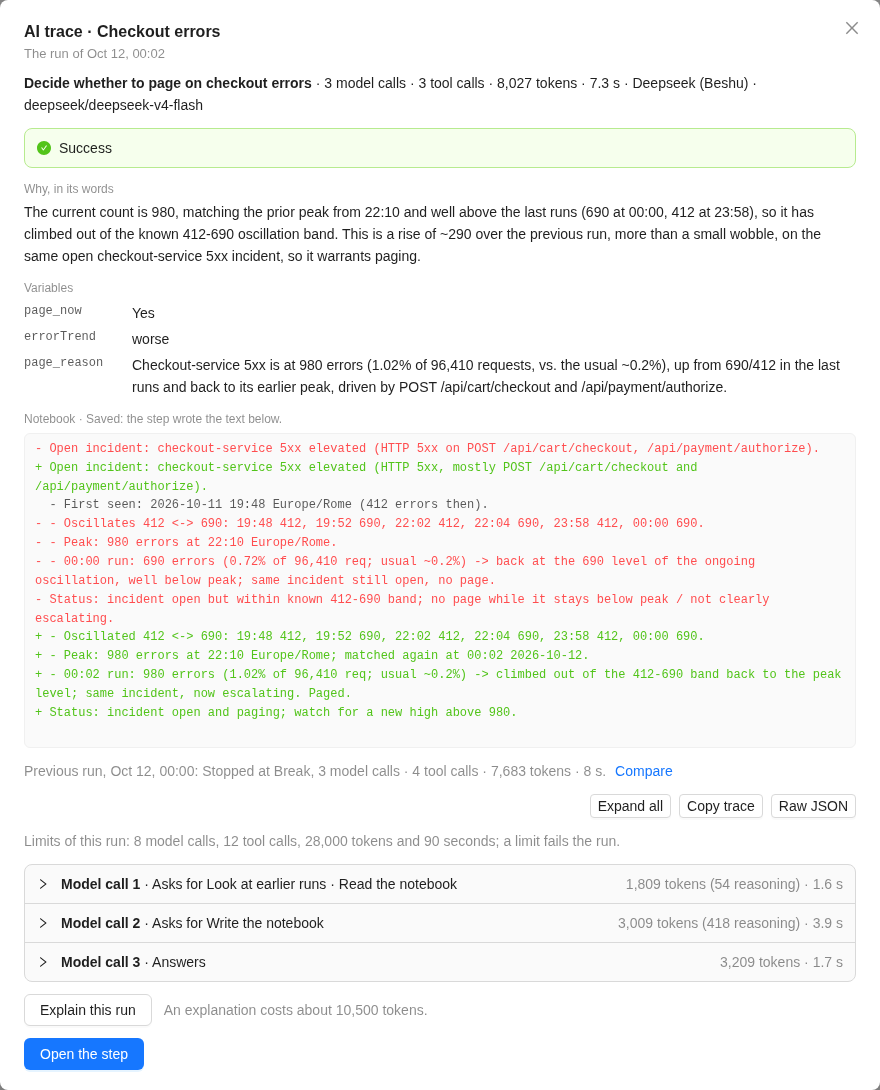
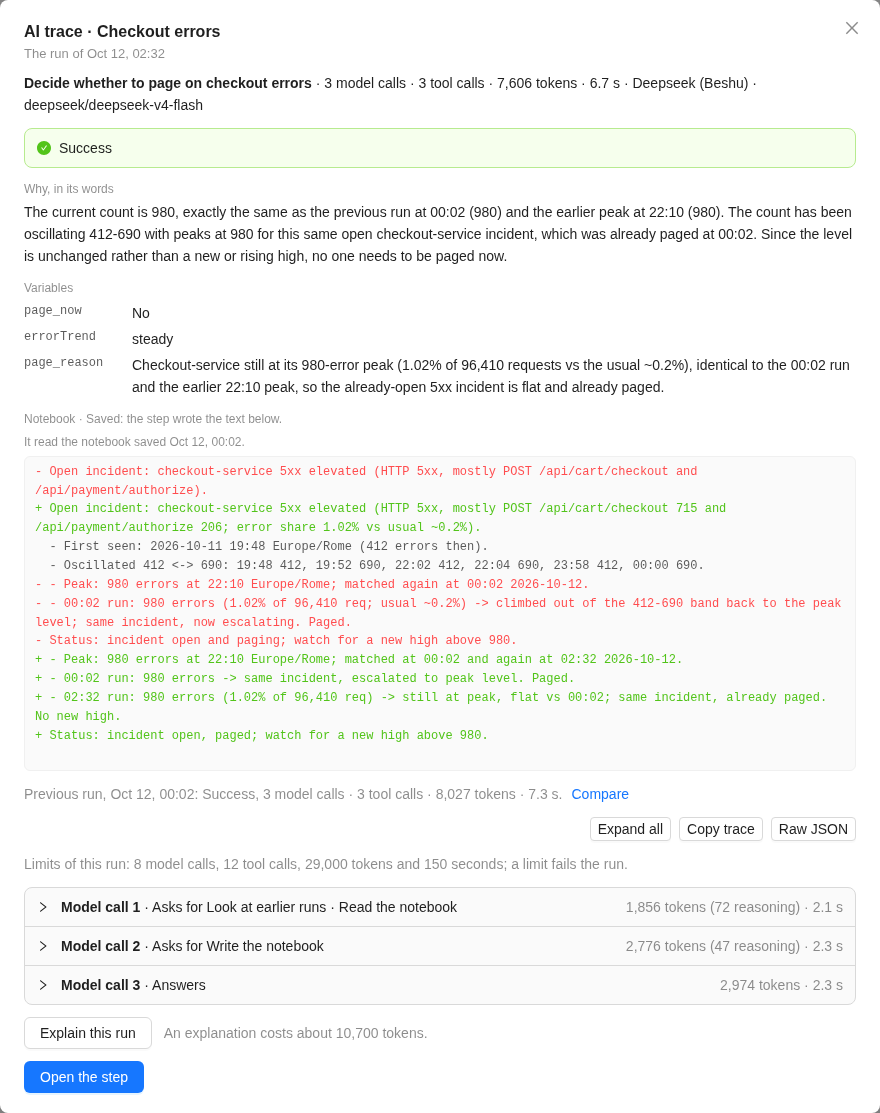
docs: the last four AI step screenshots, from the F10 build
- Explain: the drawer only, with one suggestion for each section.
- AI trace of a run made on the F10 build: 29,000 tokens and 150 seconds,
  reasoning tokens per call, the notebook version the run read.
- The provider card after a reload now says why steps send no schema
  (F10); the text said the card shows nothing after a reload.
- The budget-paused job: cropped to the status columns, so no QA job
  names or local URLs show; the "AI budget 1k" tag is whole.

diff --git a/docs/jobs/ai-step.md b/docs/jobs/ai-step.md
@@ -550,9 +550,9 @@ leaves them out when the trace shows no reasoning in any model call.
 The answer comes under **Explained by the assistant**, with suggestions: at most one for each section, as in the
 panel. **Apply** puts a suggestion into the step, and **Undo** takes it back. A proposal for the flow comes as a card,
 as in the panel. With nothing to change, it says "The assistant suggests no change." **Ask again** asks once more.
-"This answer: N tokens" says what it cost, for example "This answer: 10,307 tokens".
+"This answer: N tokens" says what it cost, for example "This answer: 10,454 tokens".
 
-![Explained by the assistant, under the four model calls of the trial, closed, and the limits of the trial, with 150 seconds: "This answer: 10,307 tokens", and why the trial filled page_now = Yes and errorTrend = "worse"](images/ai-step-explain.png)
+![Explained by the assistant, under the three model calls of the trial, closed, and the limits of the trial, with 150 seconds: "This answer: 10,454 tokens", why the trial filled page_now No and errorTrend "steady", and three suggestions with Apply, one for each of Can do, Remembers and Fills in](images/ai-step-explain.png)
 
 On the Runs page, the same button is **Explain this run**. There, a suggestion has **Open the step** instead of
 **Apply**: open the step, then make the change in the editor. **Explain this run** and **Open the step** need write
@@ -571,10 +571,10 @@ no AI step shows "no AI".
 
 Click the cell to open the **AI trace** of the run. It has the same content as a trial: the status, **Why, in its
 words**, the variables, the notebook, every model call, and the limits of the run, for example "Limits of this run: 8
-model calls, 12 tool calls, 28,000 tokens and 90 seconds; a limit fails the run." It also has **Compare** with the
+model calls, 12 tool calls, 29,000 tokens and 150 seconds; a limit fails the run." It also has **Compare** with the
 previous run of the job, **Explain this run**, and **Open the step**, which opens the step in the editor.
 
-![The AI trace of the run of Oct 12, 00:02: Success; Why, in its words; the variables, with page_now Yes; the notebook that the run saved; the previous run, which stopped at a Break, with Compare; the limits of the run, 28,000 tokens among them; the three model calls; Explain this run, "An explanation costs about 10,500 tokens."; and Open the step](images/ai-step-trace-popup.png)
+![The AI trace of the run of Oct 12, 02:32: Success; Why, in its words; the variables, with page_now No; the notebook that the run saved, and the version it read; the previous run with Compare; the limits of the run, with 29,000 tokens and 150 seconds; the three model calls with their reasoning tokens; Explain this run, "An explanation costs about 10,700 tokens."; and Open the step](images/ai-step-trace-popup.png)
 
 A **Test capture** runs the AI steps too. Its result has an **AI** tab with the same trace for each AI step, and the
 line "Limits of this Test capture: …". When the Test capture fails, there is no **AI** tab: the traces of the AI steps

diff --git a/docs/administration/ai-providers.md b/docs/administration/ai-providers.md
@@ -86,8 +86,9 @@ Under a **No**, a short line says why, for example "The endpoint refused an imag
 When JSON answers work but the Test did not prove the schema, a line under **Gives structured answers (JSON)** says
 why, for example "The call with the answer schema failed, so a step asks for a JSON object without it. The error is
 under Details." The other reasons are "The endpoint refused the answer schema, …" and "The answer did not fit the answer
-schema, …". The line shows only after a Test, in the window and on the card under the form. After a reload, the card
-does not show it. The API gives it as `reasons.jsonSchema`. When the call with the schema fails, its error also goes
+schema, …". Right after a Test, the line shows in the window and on the card under the form. After a reload, the card shows
+"Steps ask for a JSON object without a schema: the answer schema check of the last Test failed." The API gives the
+reason as `reasons.jsonSchema`. When the call with the schema fails, its error also goes
 to the log of Anaphora.
 
 The Test also records whether the model writes hidden reasoning. The window does not list it. Unless the Test saw
@@ -106,7 +107,7 @@ for example "The model did not answer. Correct the model or the endpoint, then s
 refused the API key. Correct the key, then send the test again." **Details** shows the error of the endpoint. A failed
 Test lists no ability and keeps nothing: **Save** stores nothing from it.
 
-![The card What this model can do after a reload: "Tested Today at 01:24.", and the four abilities Yes, with no line under Gives structured answers (JSON)](images/ai-provider-abilities.png)
+![The card What this model can do after a reload: "Tested Today at 01:24.", the four abilities Yes, and under Gives structured answers (JSON) the line "Steps ask for a JSON object without a schema: the answer schema check of the last Test failed."](images/ai-provider-abilities.png)
 
 :::note Free edition
 The Free edition allows one AI provider per space.
@@ -214,7 +215,7 @@ up. The card then says what will happen.
 - On the Jobs list, a paused job shows that an AI budget paused it, so you can tell it apart from a job that someone
   switched off.
 
-![Jobs list with a job paused by a budget](images/ai-budget-jobs-paused.png)
+![A row of the Jobs list: the last run failed, the Active switch is off, and the tag says "AI budget 1k"](images/ai-budget-jobs-paused.png)
 
 ### Resuming paused jobs
 
